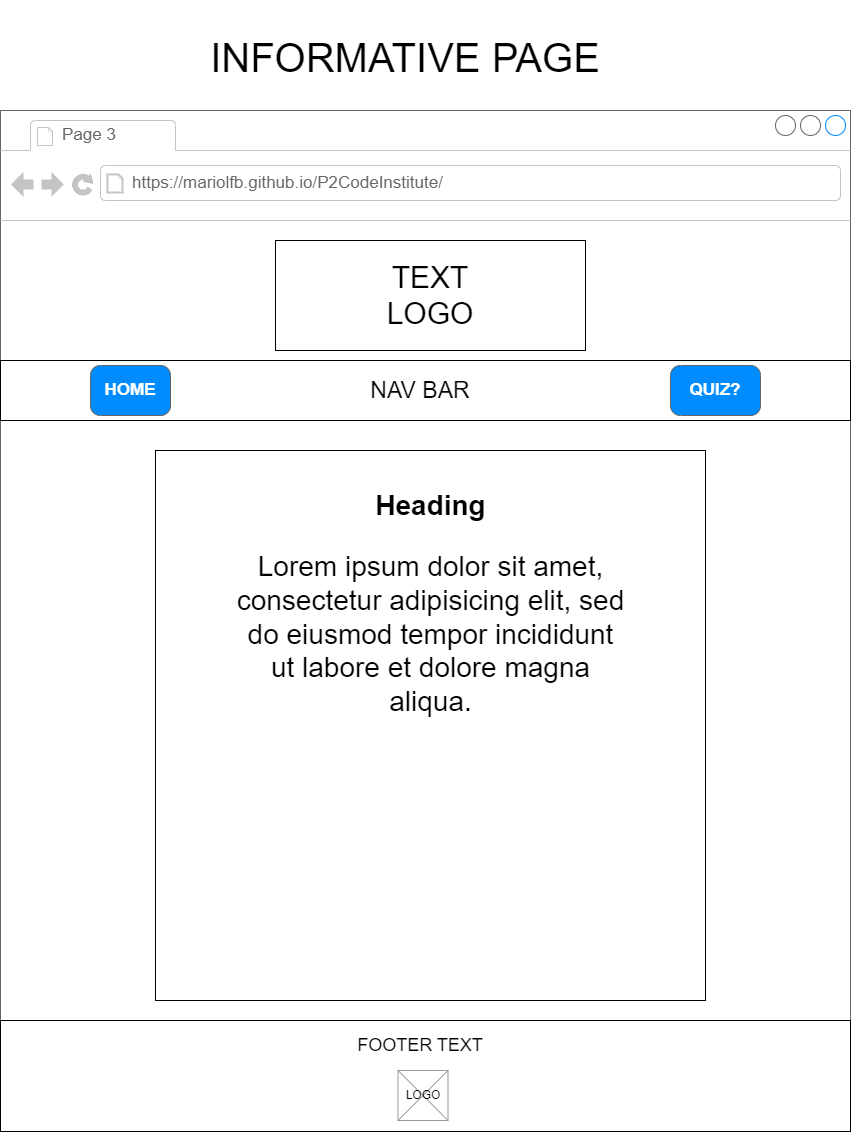
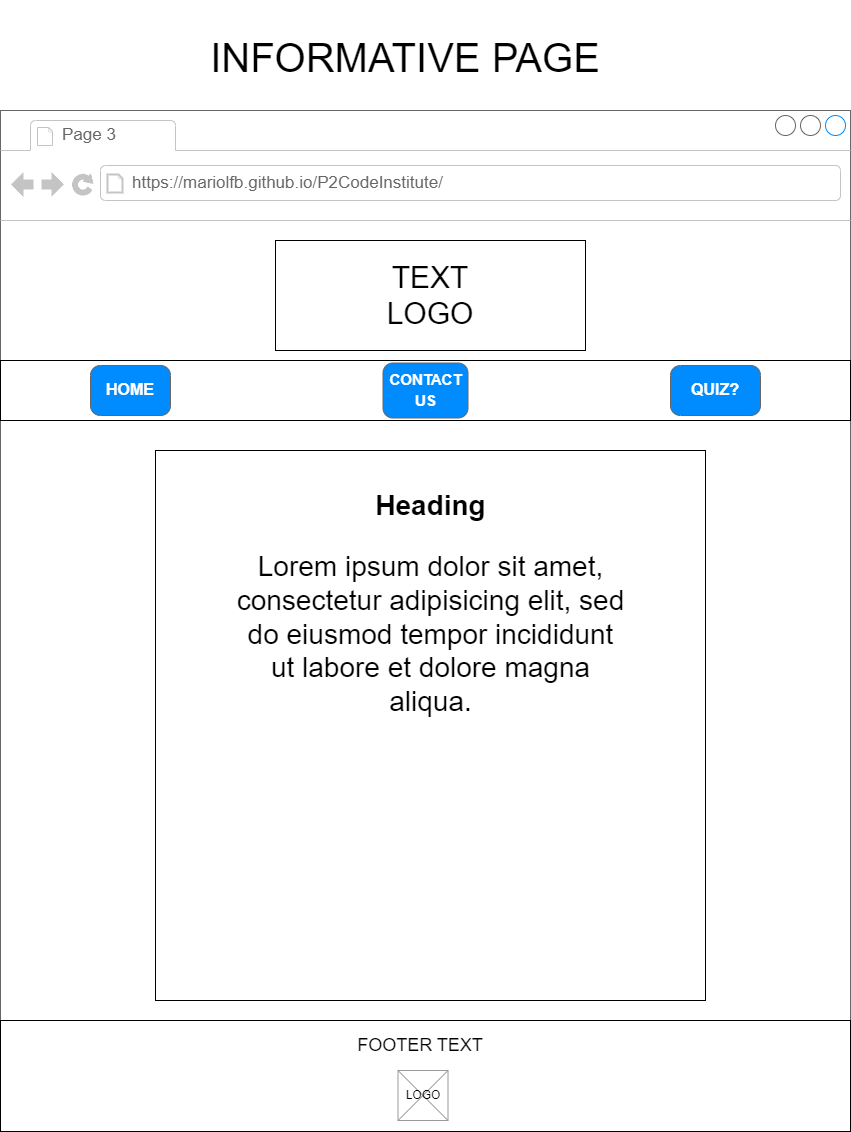
Add wireframes Contactme and page 404. Wireframes Update. Adds the Contact Us and Page 404 structure area

Changed region(s): [[0.4277, 0.3092, 0.5499, 0.371], [0.1222, 0.3401, 0.1833, 0.371], [0.8249, 0.3401, 0.8555, 0.371]]

diff --git a/README.md b/README.md
@@ -105,6 +105,8 @@ The website Structure:
 - Main Page with the Quiz content: Website Name Logo, navigation menu (Home and Quiz?), quiz game section (score information, user name, and restart button), and
 Footer with Developer's Name Information.
 - Information Page (Quiz?): Navigation menu (Home and Quiz?) followed by informative text on the theme "Mental Agility", and Footer with Developer's Name Information.
+- Contact Us: The first container contains a message form connected with EmailJS using the API method, and the second container contains an image loop related to User Reviews.
+- Page 404: Page with a central container displaying the message "404 PAGE NOT FOUND".
 
 #### Wireframes
 <details><summary>Cover Page</summary>
@@ -117,6 +119,14 @@ Footer with Developer's Name Information.
 
 <details><summary>Informative Page</summary>
 <img src="docs\wireframe\informativepage.png">
+</details>
+
+<details><summary>Contact Us</summary>
+<img src="docs\wireframe\contactus.png">
+</details>
+
+<details><summary>Page 404</summary>
+<img src="docs\wireframe\page404.png">
 </details>
 
 ## Technologies Used
